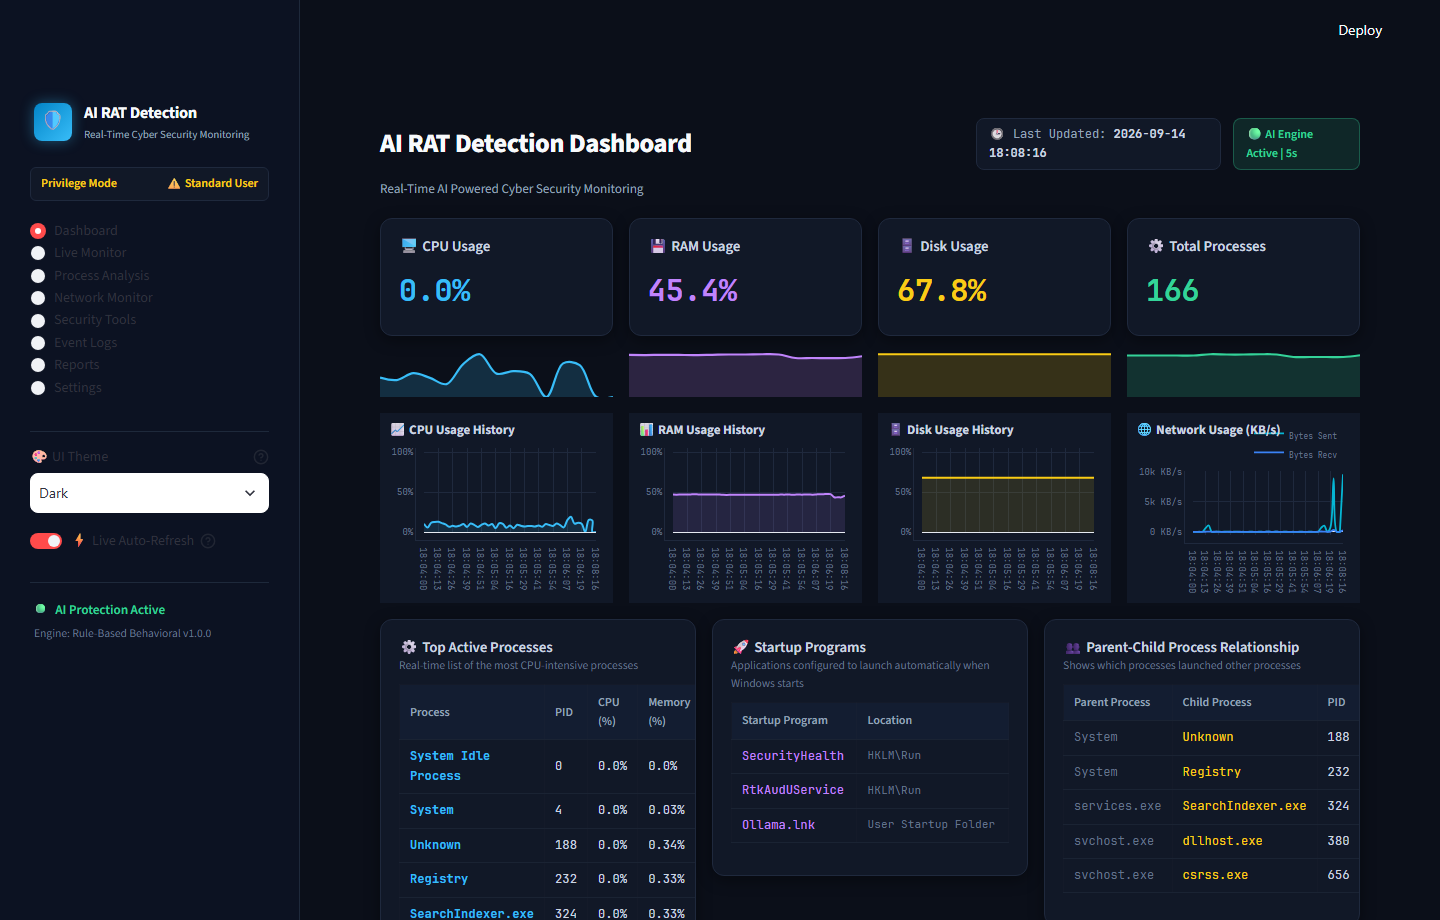
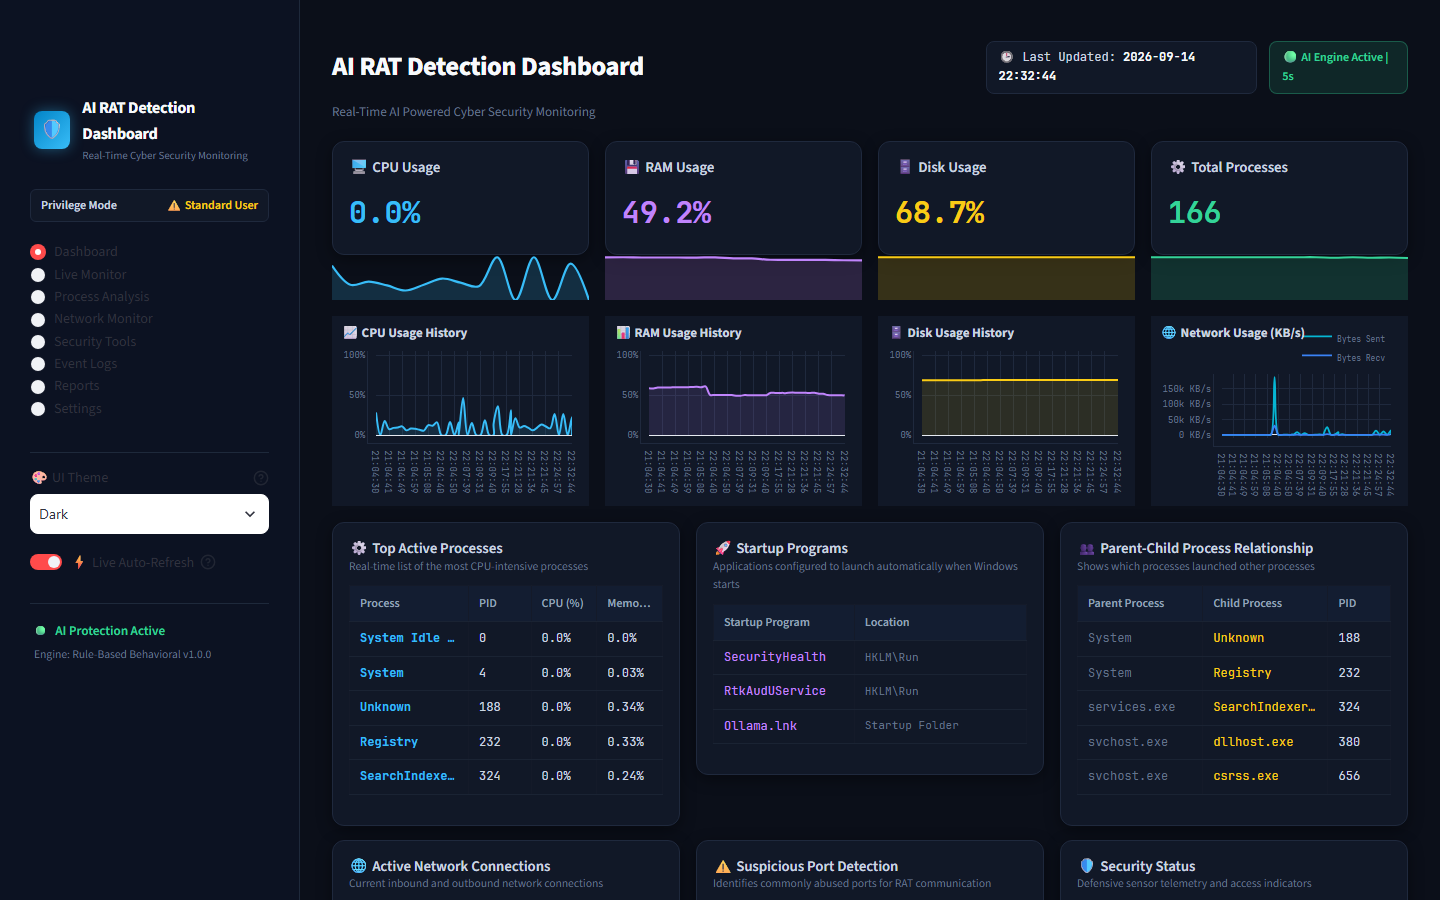
style(ui): eliminate header overlap, polish light mode, and refresh screenshots

diff --git a/Core/ui/styles.py b/Core/ui/styles.py
@@ -399,9 +399,18 @@ def get_theme_css(theme: str = "dark") -> str:
         color: var(--text-primary) !important;
     }}
 
-    /* Hide Streamlit default hamburger menu & footer */
+    /* Hide Streamlit default chrome: header, hamburger menu, decoration, and footer */
     #MainMenu {{visibility: hidden;}}
     footer {{visibility: hidden;}}
+    header[data-testid="stHeader"] {{
+        display: none !important;
+        height: 0px !important;
+        background: transparent !important;
+    }}
+    [data-testid="stDecoration"] {{
+        display: none !important;
+        height: 0px !important;
+    }}
     </style>
     """
 

diff --git a/Core/ui/sidebar.py b/Core/ui/sidebar.py
@@ -99,7 +99,7 @@ def render_sidebar() -> str:
         )
 
         # Live Feed Toggle
-        st.toggle("⚡ Live Auto-Refresh", value=True, key="setting_auto_refresh_enabled", help="Toggle background telemetry updates")
+        st.toggle("⚡ Live Auto-Refresh", key="setting_auto_refresh_enabled", help="Toggle background telemetry updates")
 
         st.markdown("<hr style='border-color: var(--sidebar-border); margin: 0.8rem 0 1rem 0;'>", unsafe_allow_html=True)
 
